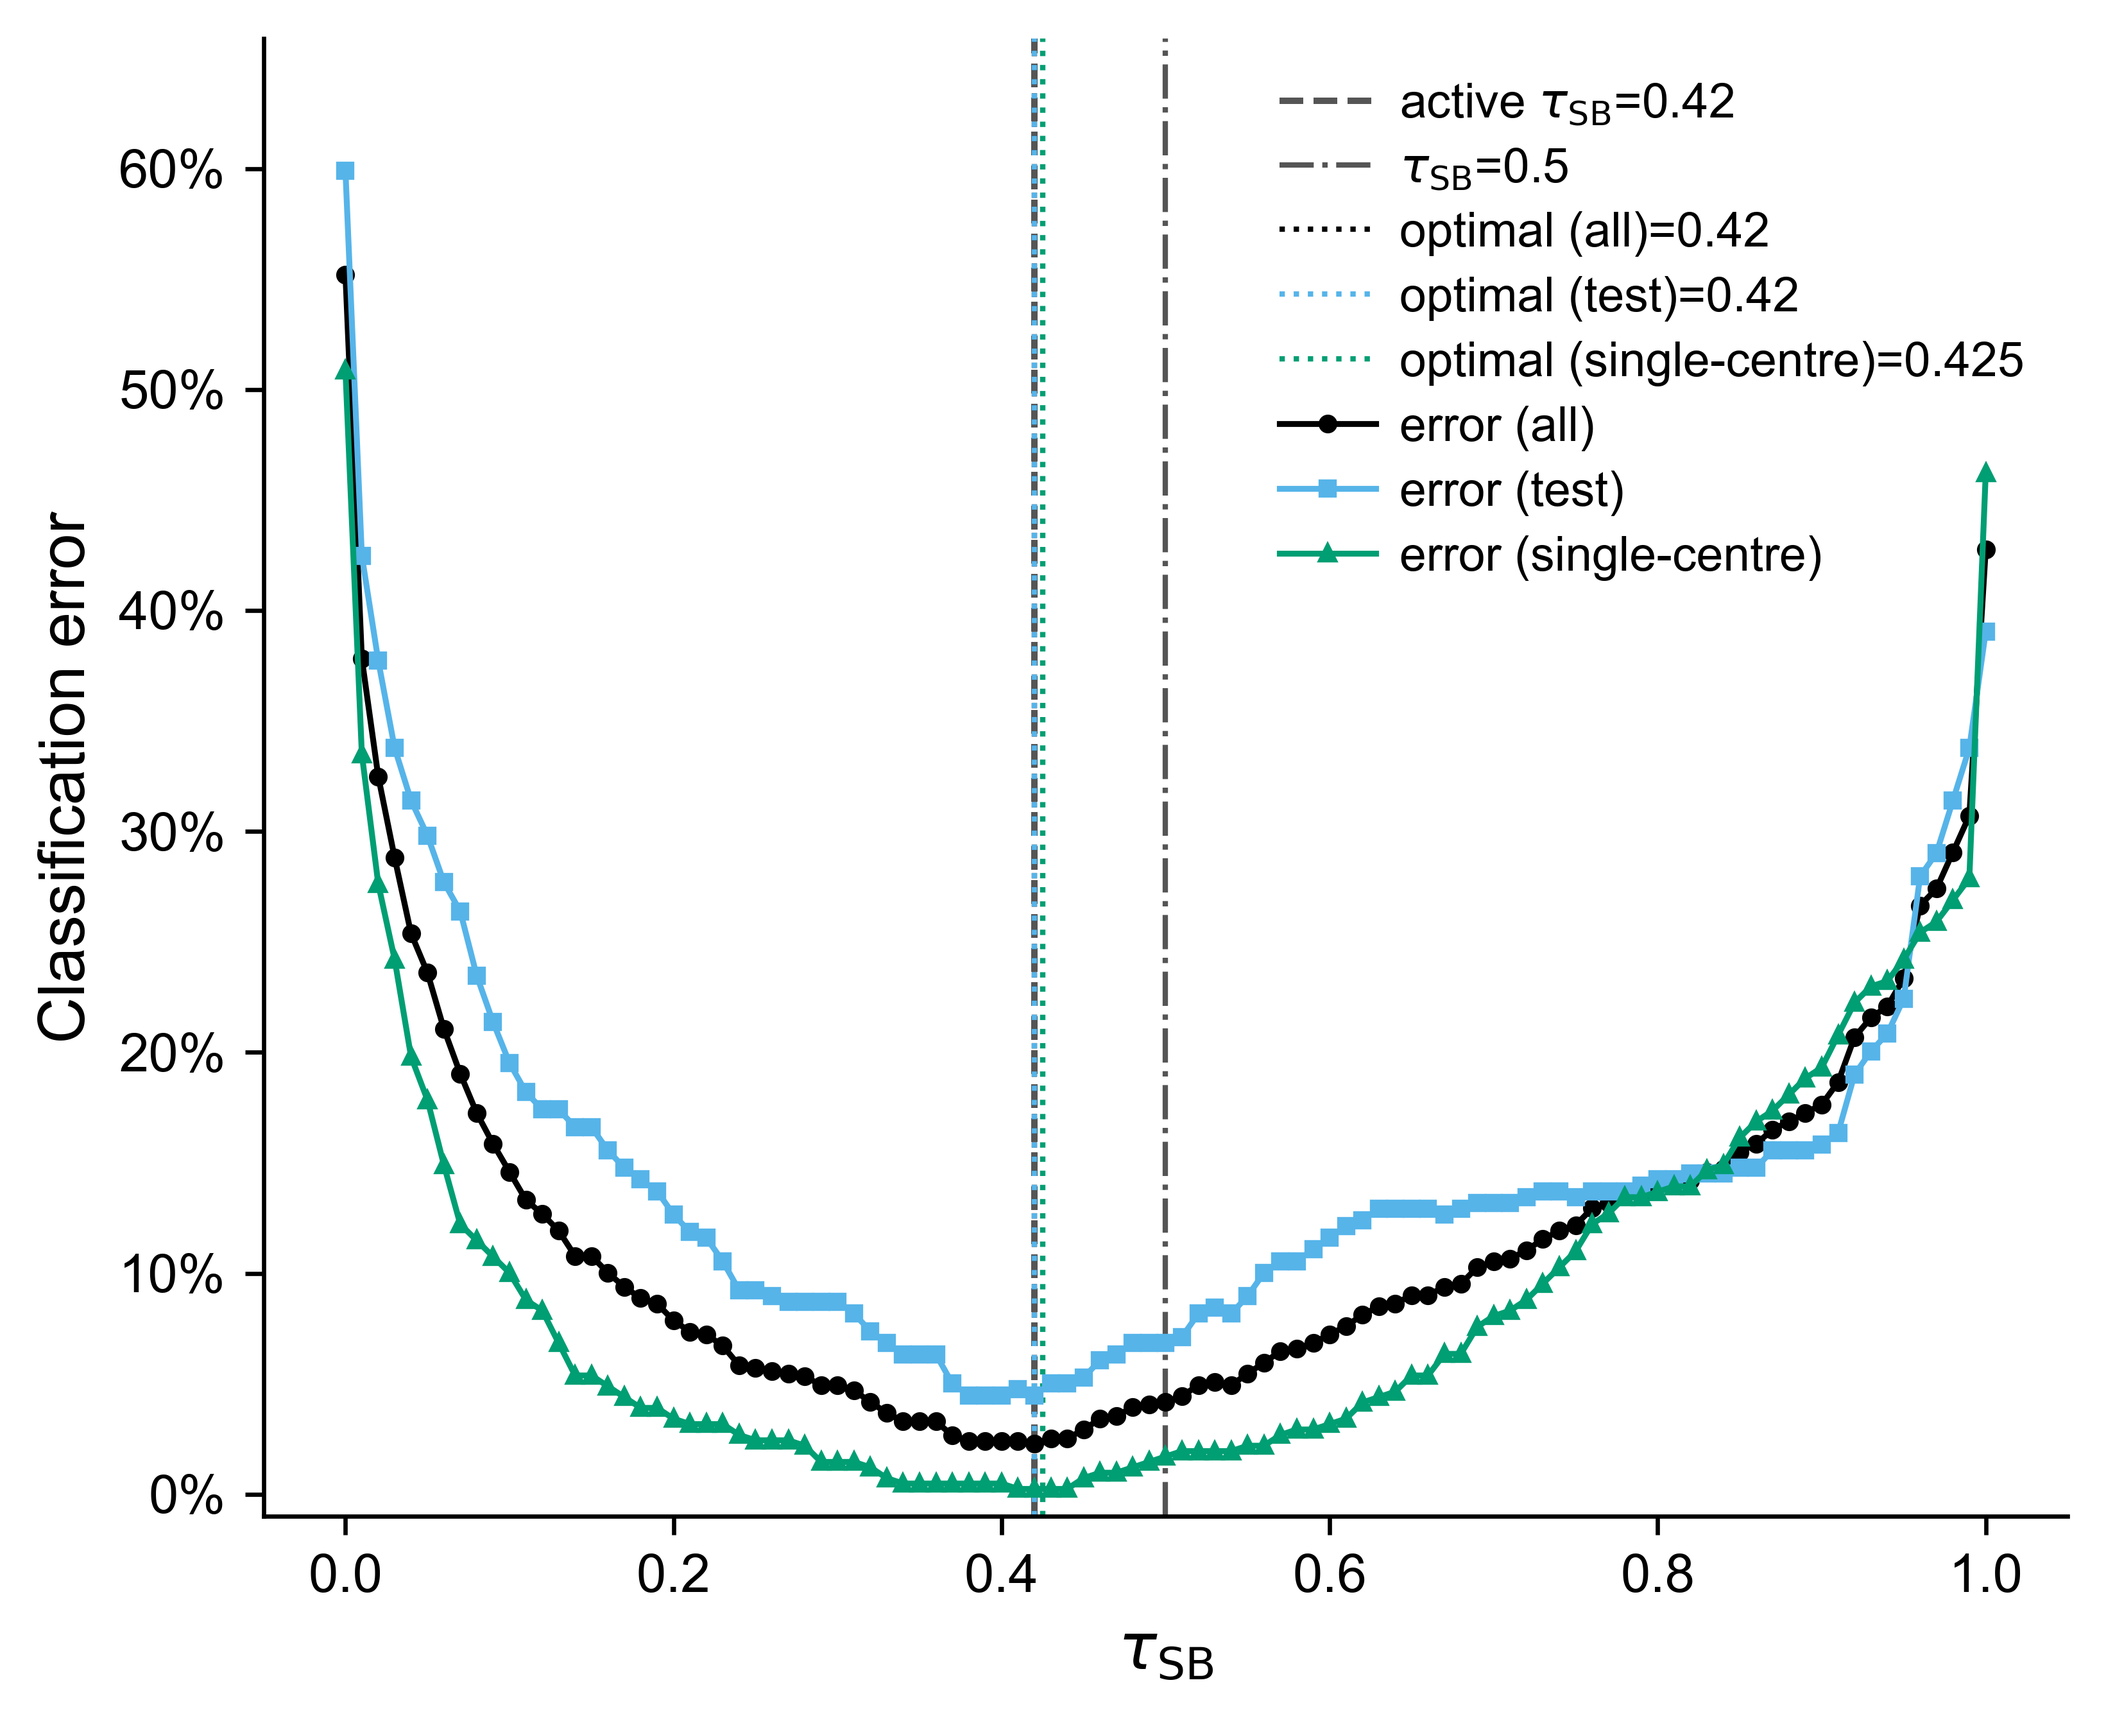
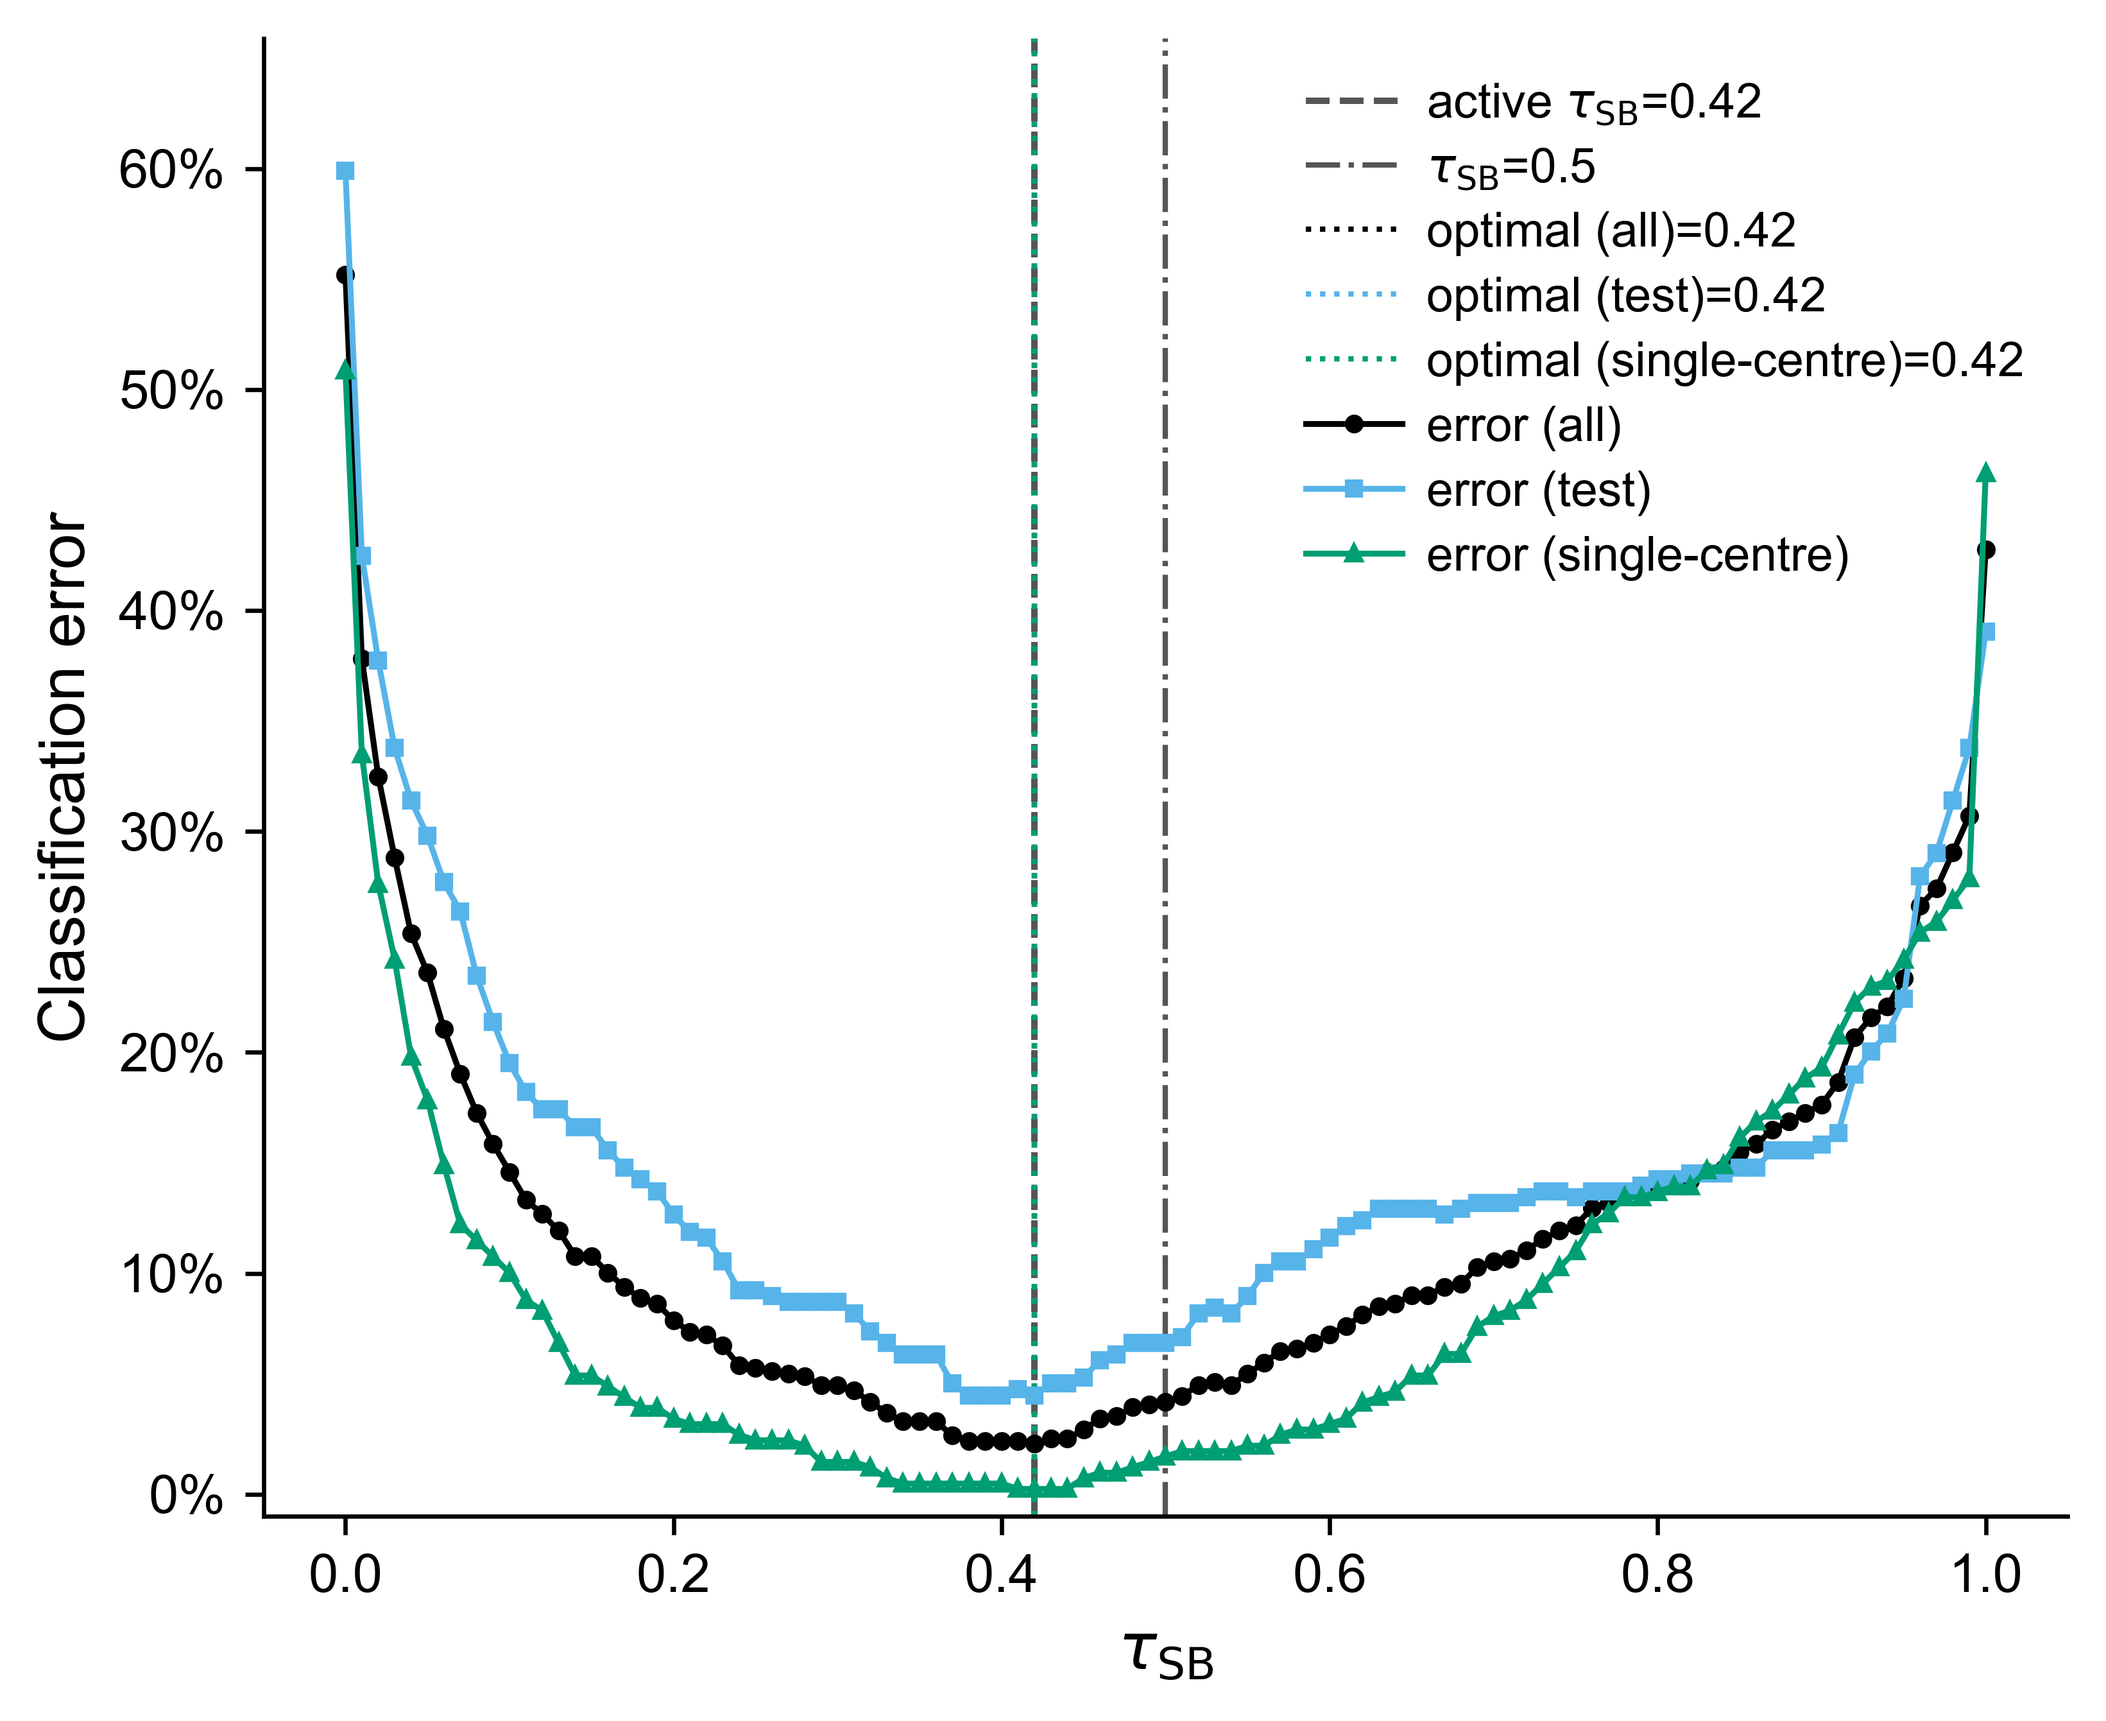
Generalize tau_SB tie-break to the individual tied point, fixing single-centre too
_error_plateau previously compared run MIDPOINTS, which fixed the
disjoint-run case (test: 0.39->0.42) but missed a subtler case: within a
single contiguous run, the active default can be one of the tied points
without being that run's arithmetic center (single-centre ties exactly
across [0.41, 0.44], and 0.42 is one of those four tied points, but the
run's midpoint is 0.425). Now searches every individual tied grid point
directly and reports whichever is closest to the active default, so
optimal_tau_single_centre also reports 0.42 -- all three scopes now agree
exactly with the active tau_SB.

Changed region(s): [[0.6216, 0.031, 0.9634, 0.3405]]

diff --git a/src/calibrate.py b/src/calibrate.py
@@ -500,61 +500,55 @@ def sweep_tau_sb(lib_df, tau_grid=DEFAULT_TAU_SB_GRID, data_dir="data"):
 
 
 def _error_plateau(sweep_df, error_col, reference_tau=None):
-    """Plateau of grid points within 1e-9 of `error_col`'s minimum (mirrors
-    find_plateau's contiguous-run logic, but keyed off minimum error rather
-    than the tau_TR sweep's change-fraction+accuracy criterion, since this
-    sweep has no "label-change" signal of its own).
+    """Tied-minimum set of grid points for `error_col` (within 1e-9 of its
+    minimum; mirrors find_plateau's contiguous-run logic, but keyed off
+    minimum error rather than the tau_TR sweep's change-fraction+accuracy
+    criterion, since this sweep has no "label-change" signal of its own).
 
-    The tied-minimum set can be split across more than one disjoint
-    contiguous run (a single grid point elsewhere ties the minimum but
-    isn't adjacent to the main run -- e.g. error_test's minimum is hit by
-    both tau_SB in [0.38, 0.40] AND the isolated point tau_SB=0.42, with
-    0.41 alone sitting strictly above the minimum). Simply taking the
-    LONGEST run silently discards an equally-valid tied point elsewhere,
-    which can make one scope's reported "optimal" tau disagree with
-    another scope's even though both are genuinely tied for the best error.
-    Instead, among all tied runs, the one whose midpoint is CLOSEST to
-    `reference_tau` (default: Thresholds.calibrated().tau_SB, the active
-    frozen default) is reported; ties in distance fall back to the longer
-    run, then the leftmost. This costs nothing when there is only one tied
-    run (the common case) and otherwise favors agreement with the active
-    default -- and hence with other scopes' own optimum -- whenever the
-    data leaves that choice open.
+    The reported representative tau is the single TIED grid point CLOSEST
+    to `reference_tau` (default: Thresholds.calibrated().tau_SB, the active
+    frozen default), not the arithmetic midpoint of the longest contiguous
+    run -- run-midpoint tie-breaking gets this wrong two different ways:
+      1. The tied-minimum set can be split across disjoint runs (e.g.
+         error_test's minimum is hit by both tau_SB in [0.38, 0.40] AND the
+         isolated point 0.42, with 0.41 alone sitting strictly above the
+         minimum) -- taking the longest run silently discards the equally
+         valid isolated tie.
+      2. Even within a single contiguous run, the reference tau can be one
+         of the tied points WITHOUT being that run's arithmetic center
+         (e.g. error_single_centre ties exactly across [0.41, 0.44]
+         inclusive -- 0.42 is one of those four tied points, but the run's
+         midpoint is 0.425, not 0.42).
+    Both cases are fixed by searching every tied point directly rather than
+    only comparing run midpoints. Ties in distance fall back to the
+    smaller tau_SB. `tau_lo`/`tau_hi` in the return value are still the
+    bounds of whichever contiguous run contains the chosen point (context
+    only -- not used to compute the reported tau).
 
-    Returns (tau_lo, tau_hi, midpoint, min_error).
+    Returns (tau_lo, tau_hi, tau, min_error).
     """
     if reference_tau is None:
         reference_tau = Thresholds.calibrated().tau_SB
     min_error = sweep_df[error_col].min()
     ok = sweep_df[error_col] <= min_error + 1e-9
-
-    runs = []
-    cur_start = cur_len = 0
-    for i, v in enumerate(ok.tolist()):
-        if v:
-            if cur_len == 0:
-                cur_start = i
-            cur_len += 1
-        else:
-            if cur_len > 0:
-                runs.append((cur_start, cur_len))
-            cur_len = 0
-    if cur_len > 0:
-        runs.append((cur_start, cur_len))
-    if not runs:
+    if not ok.any():
         raise ValueError(f"No plateau found for {error_col}: this should be unreachable "
                           "since the grid's own minimum always satisfies its own tolerance.")
 
-    best = None
-    for start, length in runs:
-        lo = float(sweep_df["tau_SB"].iloc[start])
-        hi = float(sweep_df["tau_SB"].iloc[start + length - 1])
-        midpoint = round((lo + hi) / 2, 4)
-        key = (abs(midpoint - reference_tau), -length, start)
-        if best is None or key < best[0]:
-            best = (key, (lo, hi, midpoint))
-    (lo, hi, midpoint) = best[1]
-    return lo, hi, midpoint, float(min_error)
+    tied = sweep_df.loc[ok, "tau_SB"]
+    best_idx = min(tied.index, key=lambda i: (abs(float(tied[i]) - reference_tau), float(tied[i])))
+    tau = float(tied[best_idx])
+
+    ok_list = ok.tolist()
+    pos = sweep_df.index.get_loc(best_idx)
+    lo_pos = hi_pos = pos
+    while lo_pos > 0 and ok_list[lo_pos - 1]:
+        lo_pos -= 1
+    while hi_pos < len(ok_list) - 1 and ok_list[hi_pos + 1]:
+        hi_pos += 1
+    lo = float(sweep_df["tau_SB"].iloc[lo_pos])
+    hi = float(sweep_df["tau_SB"].iloc[hi_pos])
+    return lo, hi, tau, float(min_error)
 
 
 def run_tau_sb_error_analysis(data_dir="data", tau_grid=DEFAULT_TAU_SB_GRID, write=True):
